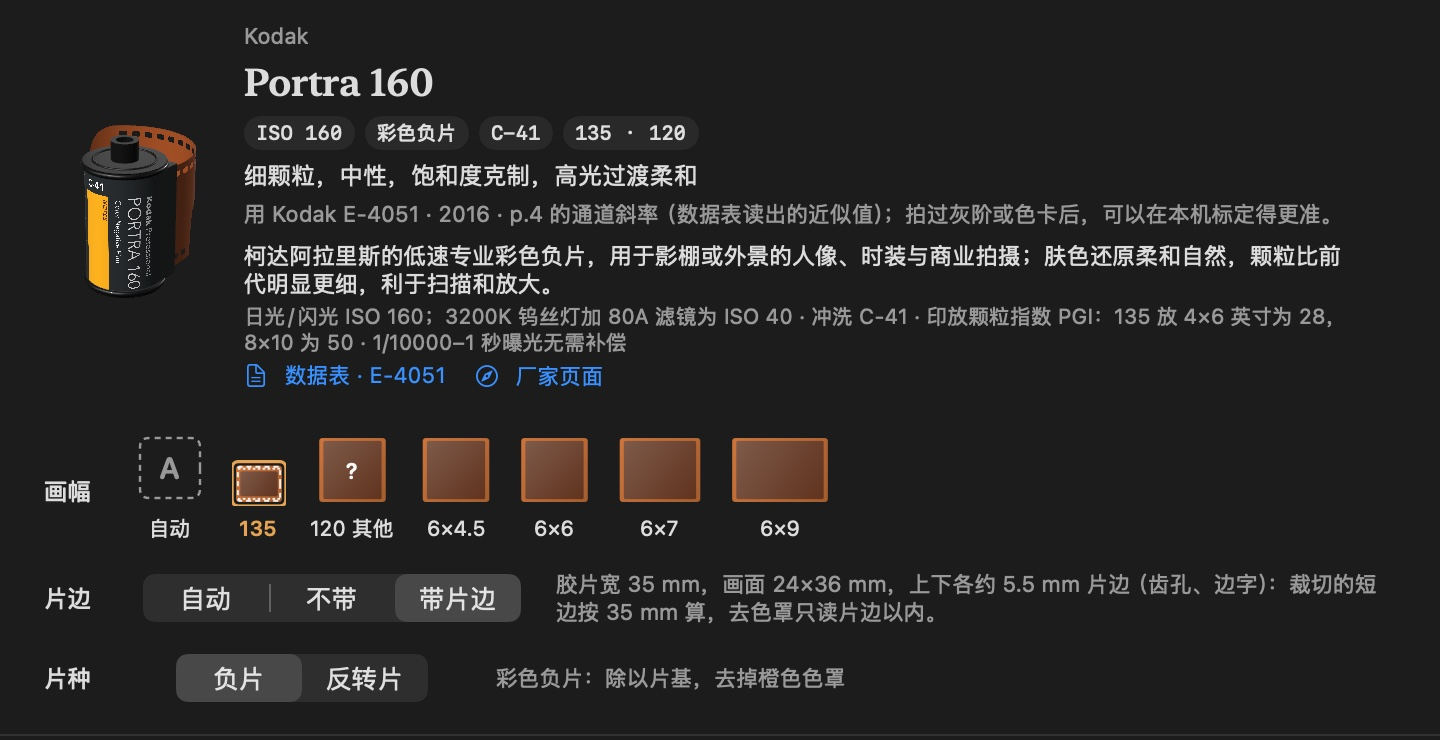
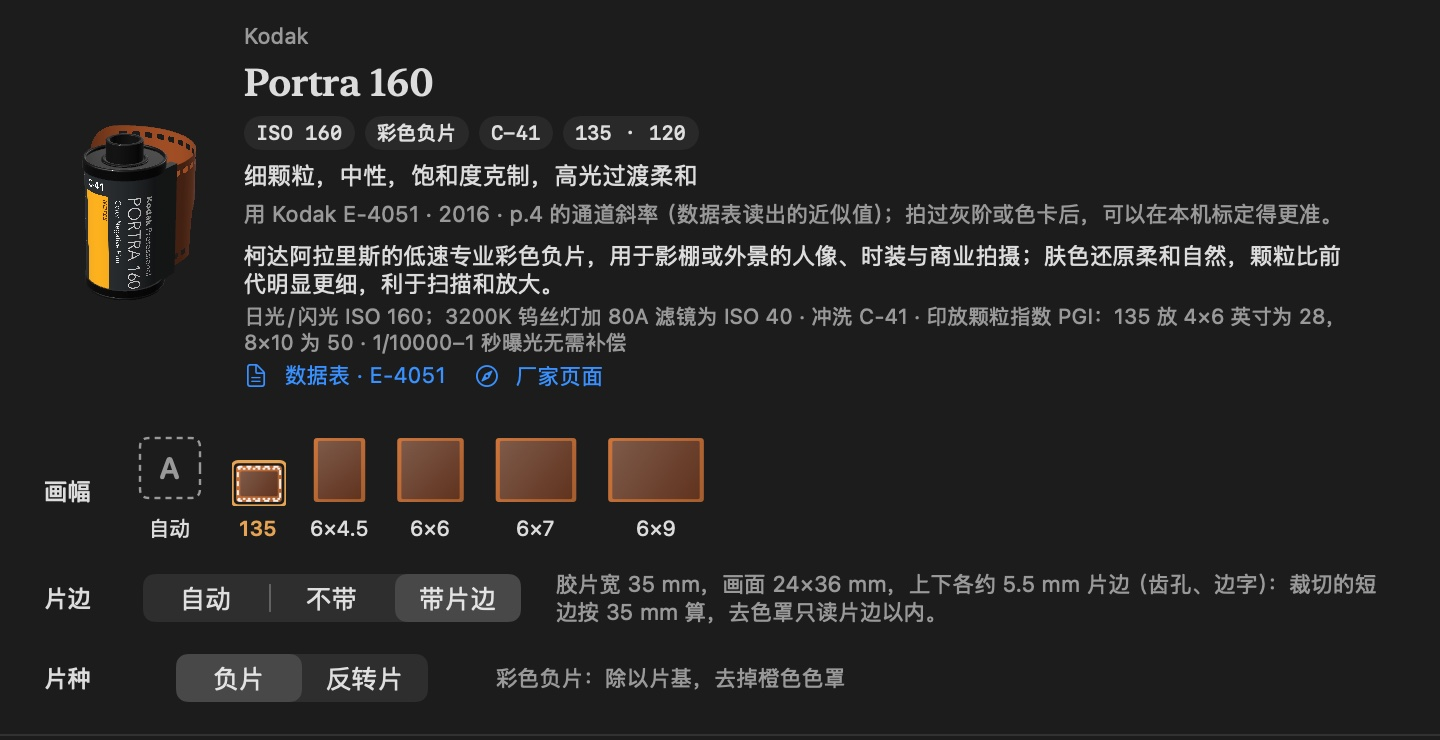
The formats offered leave out 「120 其他」; a roll that has it keeps it
The shelf, ①'s 规格 and ②'s 画幅 offer 自动, 135 and the four 120
frames. A roll saved as 120 of a length not given opens and shows it as
before (FilmFormat.offered(keeping:)). The README's shelf picture is
retaken with the right 6×4.5. The locked-screen subset passed (88), and
build.sh passed.

diff --git a/Sources/NewProjectTests.swift b/Sources/NewProjectTests.swift
@@ -169,6 +169,10 @@ enum NewProjectTests {
       && abs(dpi(3800, 3500, .mm135, .rebate, NormalRect(x: 0.05, y: 0.16, width: 0.9, height: 2400.0 / 3500)) - 2540) < 0.01
       && AppModel.formatDPI(crop: CGSize(width: 3800, height: 3500), region: nil, format: .auto, edges: .rebate) == nil,
       "a copy taking in the film's edge is sized by the film's width (35 mm on 135, 61.5 mm across 120), one of the picture alone by the picture's")
+    // 「120 其他」 is offered no more, but a roll that has it keeps it.
+    try check(!FilmFormat.offered(keeping: .auto).contains(.medium) && !FilmFormat.offered(keeping: .six6).contains(.medium)
+      && FilmFormat.offered(keeping: .medium).contains(.medium) && FilmFormat.offered(keeping: .auto).count == FilmFormat.allCases.count - 1,
+      "the formats offered leave out 120 of a length not given, but a roll already so keeps it")
     // 6×4.5 lies 41.5 mm along the film by 56 across: drawn narrower than 6×6, not as its square.
     try check(FormatPiece.size(.six45).width < FormatPiece.size(.six6).width && FormatPiece.size(.six6).width < FormatPiece.size(.six7).width
       && abs(FormatPiece.size(.six45).width / FormatPiece.size(.six45).height - 49.5 / 61.5) < 0.01,

diff --git a/Sources/ContentView+Panels.swift b/Sources/ContentView+Panels.swift
@@ -104,7 +104,7 @@ extension ContentView {
         "预览后自动识别画面。点接触表上的一张进入单张，在单张里用「画框」细调裁切：拖四角缩放，拖框内移动。漏掉的画面用「手动画框」在接触表上拖出新的画框。「收紧现有边界」只收紧已有画面框，保留逐张调色和原始扫描。")
       labeled("规格") {
         Picker("", selection: Binding(get: { m.format }, set: { m.setFormat($0) })) {
-          ForEach(FilmFormat.allCases, id: \.self) { Text($0.rawValue).tag($0) }
+          ForEach(FilmFormat.offered(keeping: m.format), id: \.self) { Text($0.rawValue).tag($0) }
         }.labelsHidden()
           .help("这一卷的画幅：扫描时按它识别画面，翻拍时按它算画面在胶片上的大小（看片镜的视场、导出的 dpi）；和 ② 去色罩「胶片」里的画幅是同一个")
       }

diff --git a/Sources/ContentView.swift b/Sources/ContentView.swift
@@ -786,7 +786,7 @@ struct ContentView: View {
         }
         labeled("画幅") {
           Picker("画幅", selection: Binding(get: { m.format }, set: { m.setFormat($0) })) {
-            ForEach(FilmFormat.allCases, id: \.self) { Text($0.rawValue).tag($0) }
+            ForEach(FilmFormat.offered(keeping: m.format), id: \.self) { Text($0.rawValue).tag($0) }
           }
           .labelsHidden().frame(maxWidth: .infinity, alignment: .leading).disabled(m.isWorking)
           .help("这一卷的画幅：翻拍的照片按它算画面在胶片上的大小，看片镜的视场和导出的 dpi 跟着它；扫描时按它识别画面。「自动」时翻拍照片的长边按 135 的 36 mm 算")

diff --git a/Sources/Models.swift b/Sources/Models.swift
@@ -809,6 +809,11 @@ extension FilmFormat {
     default: return 61.5
     }
   }
+  /// The formats a roll can be given: 120 of a length not given (`medium`, 「120 其他」) only where
+  /// the roll already has it, as an older one may; it opens as it was.
+  static func offered(keeping current: FilmFormat) -> [FilmFormat] {
+    allCases.filter { $0 != .medium || current == .medium }
+  }
   /// The picture's length along the film, in millimetres: 36 on 135; on 120 41.5 for 6×4.5 (its
   /// short side runs along the film), 56, 69.5 and 84. Nil for 自动 and 120 of a length not given.
   var alongMM: Double? {

diff --git a/Sources/NewProjectSheet.swift b/Sources/NewProjectSheet.swift
@@ -274,7 +274,7 @@ struct NewProjectSheet: View {
     HStack(alignment: .bottom, spacing: 0) {
       Text("画幅").font(.system(size: 12, weight: .medium)).frame(width: 44, alignment: .leading).padding(.bottom, 18)
       HStack(alignment: .bottom, spacing: 12) {
-        ForEach(FilmFormat.allCases, id: \.self) { f in
+        ForEach(FilmFormat.offered(keeping: format), id: \.self) { f in
           let on = f == format, offered = offers(f)
           Button {
             withAnimation(.easeOut(duration: 0.15)) { format = f }

diff --git a/doc/CHANGELOG.md b/doc/CHANGELOG.md
@@ -6,6 +6,7 @@
 
 负片的转换不变。
 
+- **画幅里去掉「120 其他」**：胶片架、① 的规格和 ② 的画幅里都不再列出不定长的 120。以前存成「120 其他」的卷照样打开，打开时仍显示它，换成别的画幅后就不再出现。自检增加 1 项。
 - **胶片架上 6×4.5 的画幅小图改成正确的比例**：以前画成和 6×6 一样的方块，现在照它在胶片上的样子画：沿胶片 41.5 mm、横过胶片 56 mm，是竖着的长方形。鼠标停在上面的提示也改成「41.5 × 56 mm（沿胶片 × 横过胶片）」。看片镜视场和导出的 dpi 一直是按 41.5 mm 的短边算的，不受影响。自检增加 1 项。
 - **库里每一卷都放上了它自己的胶卷**：标签左边画着这一卷的胶片，和胶片架上的一样，135 是暗盒，120 画幅是 120 卷。目录里没有的胶片，画成写着名字的素罐。 ① 右栏「本卷」里的胶片也画着它的胶卷。
 - **工具栏的「除尘标出」开关**：在 ② 左上角魔棒旁边。按下时单张上用圆圈标出找到的灰尘，松开就不画，照片干干净净地看。它和除尘里的「标出」是同一个开关，退出后也记得；「画面」菜单里也有，快捷键 ⇧⌘D。
